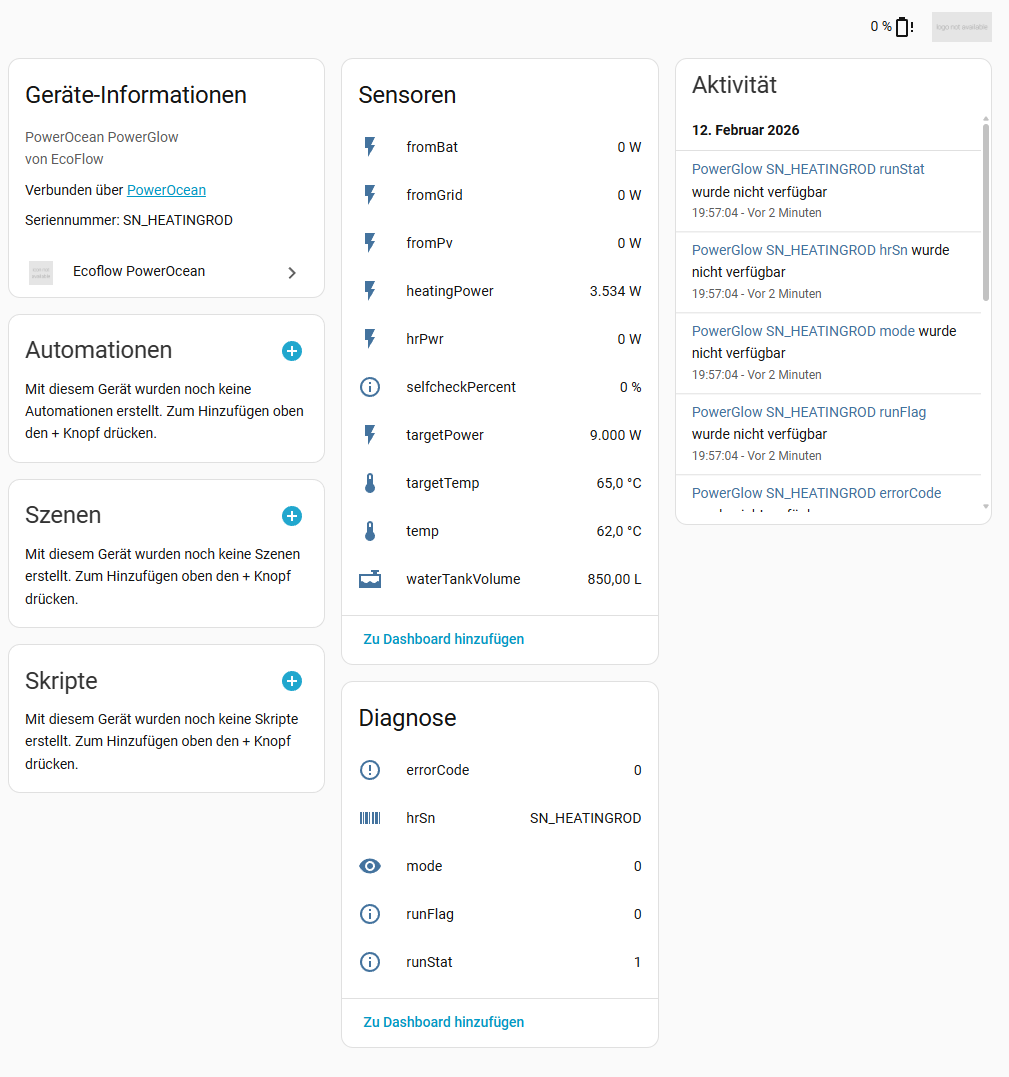
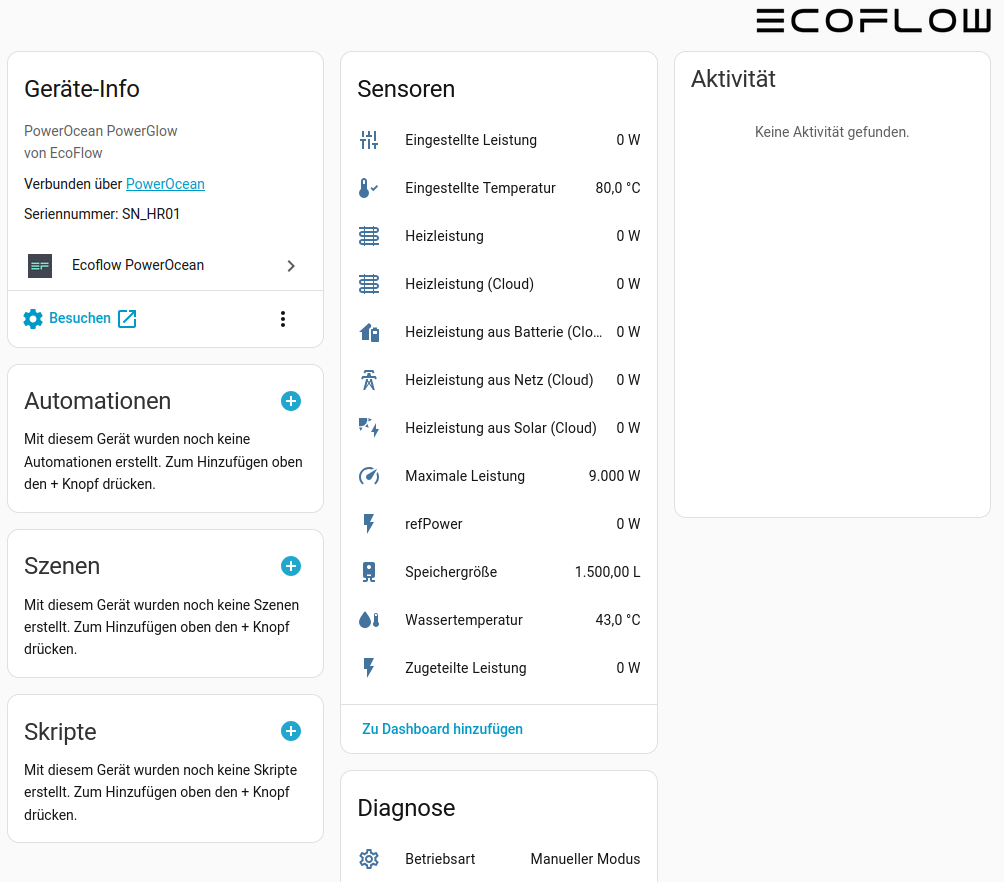
README: neue Screenshots der Geräte
Geräteübersicht mit je einem Satz pro Gerät: Integration, Wechselrichter,
Batterie-Pack, Smart Meter, PowerGlow, PowerPulse (Stand mit lesbaren
Namen, Firmware und Modellkennung, aus der PowerGlow-Fixture; nur
Platzhalter-Seriennummern). Alte Bilder integration.PNG, powerglow.png,
powerpulse.png ersetzt; Dateinamen einheitlich klein, damit sie auf
Windows/macOS nicht kollidieren.

diff --git a/README.md b/README.md
@@ -107,10 +107,27 @@ For a dashboard, take the values from `EMS_HEARTBEAT`:
 The friendly names point the way: values from `data` and `ENERGY_STREAM_REPORT` end in "(cloud)", e.g. "House consumption (cloud)", the calculated values have no suffix, e.g. "House consumption".
 In dual systems (master and slave inverter), the values from `PARALLEL_ENERGY_STREAM_REPORT` end in "(energy flow)". According to [#23](https://github.com/niltrip/powerocean/issues/23) they are updated regularly, unlike those from `data`.
 
-### Devices by serial number
-![integration](documentation/integration.PNG)
-![powerpulse](documentation/powerpulse.png)
-![powerglow](documentation/powerglow.png)
+### Devices
+Each part of the system is a device of its own, named by its serial number and linked to the inverter. The serial number and, where the cloud reports it, the firmware are shown in the device info; the link "Visit" opens the EcoFlow web portal.
+
+![devices of the integration](documentation/integration.png)
+
+**PowerOcean (inverter):** live values, calculated energy flows and the state of the system. The model ID in brackets is the product type you chose at setup (83 = PowerOcean).
+
+![inverter](documentation/powerocean.png)
+
+**Battery packs:** state of charge, power, energy and state of health per pack; the firmware is shown in the device info.
+
+![battery pack](documentation/battery-pack.png)
+
+**Smart meter:** power of each phase and the total, for three-phase meters. The number in brackets is the meter type.
+
+![smart meter](documentation/smart-meter.png)
+
+**PowerGlow heating rod** and **PowerPulse wallbox**, if present: temperatures, heating power and mode; charging power, currents, mode and the last charging session. Values marked "(cloud)" are probably only refreshed while the app is open, like the other cloud values above.
+
+![PowerGlow heating rod](documentation/powerglow.png)
+![PowerPulse wallbox](documentation/powerpulse.png)
 
 
 ### Energy dashboard
